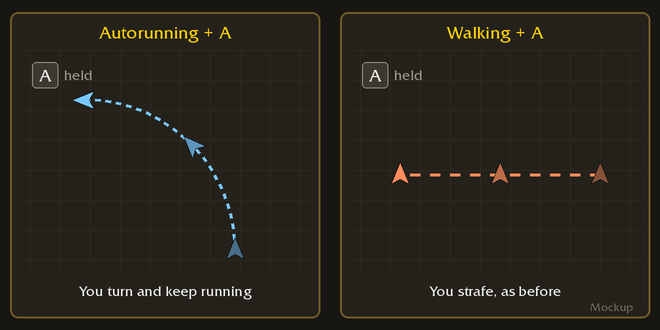
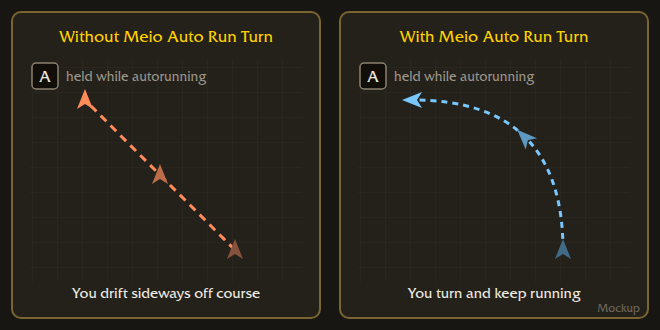
Mockup: before/after both autorunning (drift diagonally vs turn)
Claude-Session: https://claude.ai/code/session_01FpmmnuVb7y2wJ6Z2GDkuxK

diff --git a/README.md b/README.md
@@ -4,8 +4,9 @@ Steer with your strafe keys while autorunning: A and D turn you instead of sides
 
 For WoW Forever.
 
-![Mockup, not a game screenshot: seen from above, autorunning with A held curves you to the
-left and you keep running; walking with A held sidesteps you left as usual](docs/turning.png)
+![Mockup, not a game screenshot: seen from above, autorunning with A held. Without Meio Auto
+Run Turn you drift diagonally forward and left, off course; with it you curve left and keep
+running](docs/turning.png)
 
 ## What it does
 
